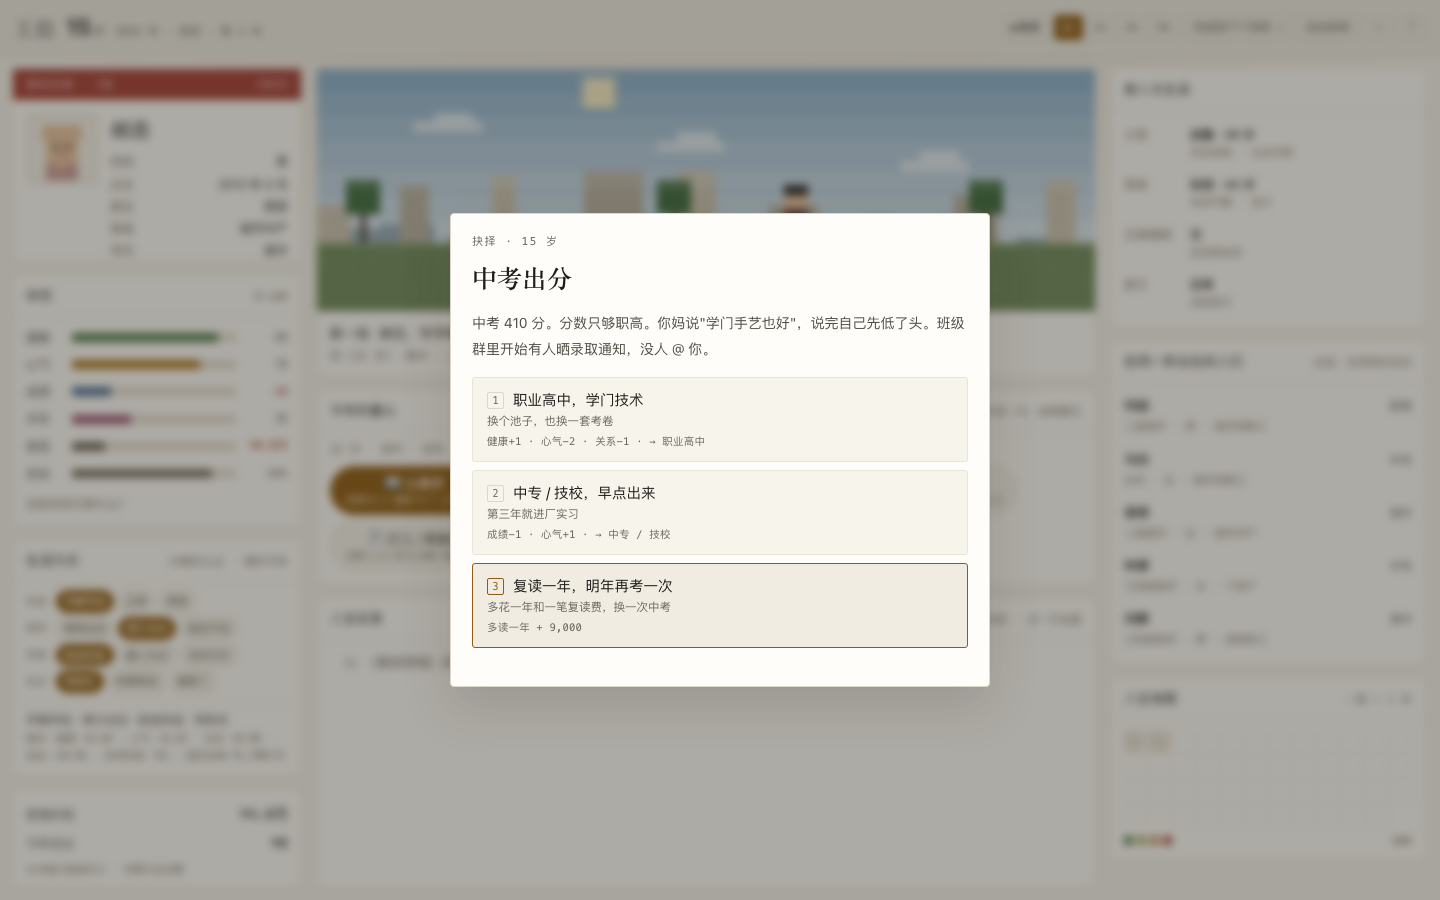
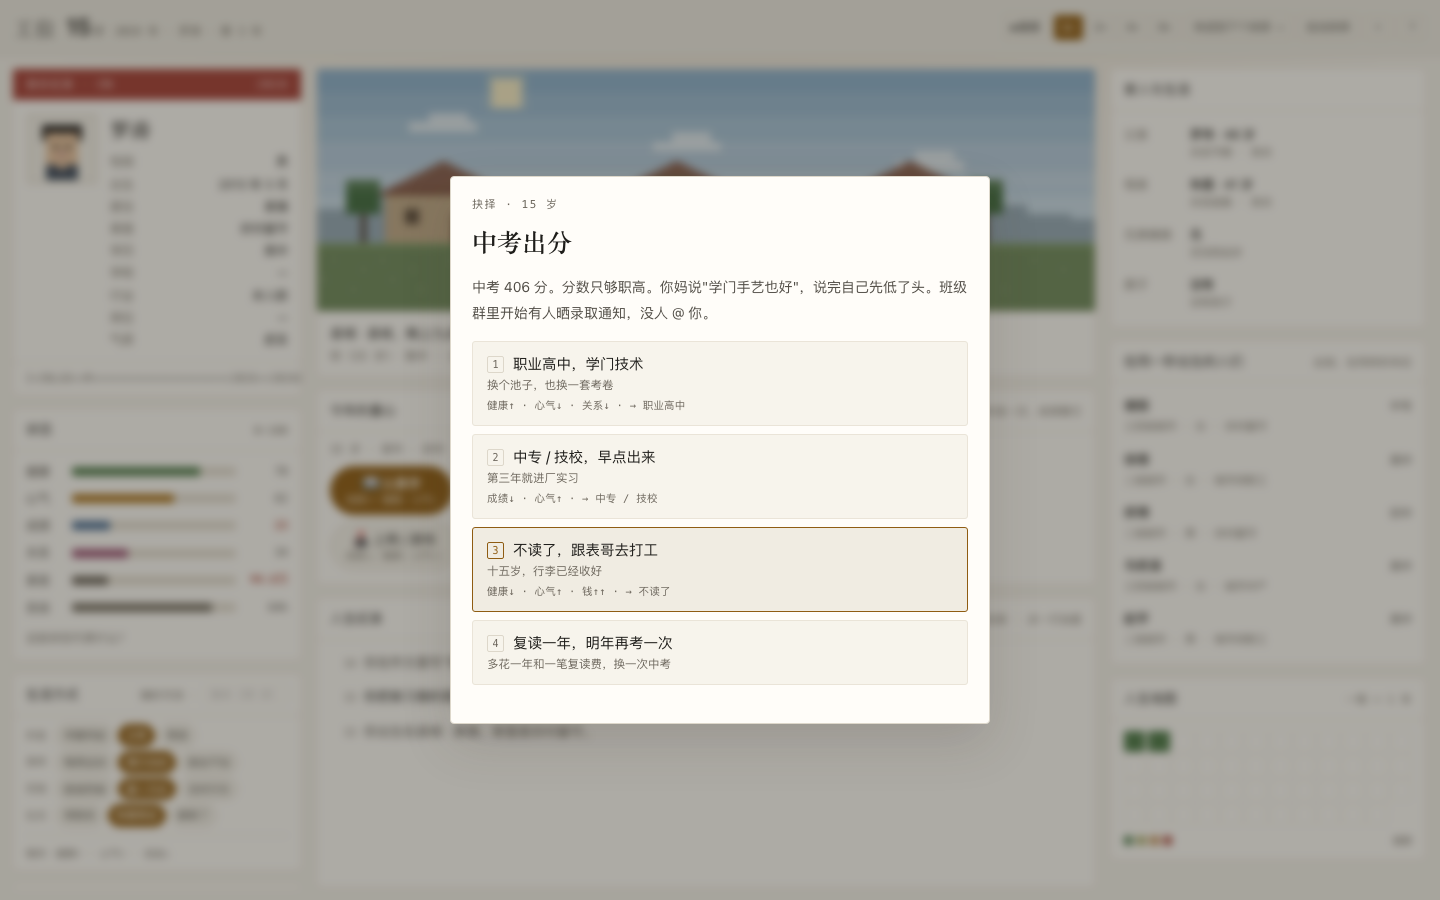
v0.8.0: 增减只给方向（↑ / ↑↑ / ↑↑↑），不再显示具体数值

diff --git a/js/ui.js b/js/ui.js
@@ -426,12 +426,11 @@
     if (isStudent()) {
       const f = D.focusSchool[id];
       if (!f) return [];
-      const sg = function (n) { return (n > 0 ? '+' : '−') + (Math.abs(n) % 1 ? Math.abs(n).toFixed(1) : Math.abs(n)); };
       const out = [];
-      if (f.acad) out.push('成绩' + sg(f.acad));
-      if (f.cash) out.push((f.cash > 0 ? '钱+' : '钱−') + fmtWan(Math.abs(f.cash)));
-      if (f.health) out.push('健康' + sg(f.health));
-      if (f.spirit) out.push('心气' + sg(f.spirit));
+      if (f.acad) out.push('成绩' + dirStat(f.acad));
+      if (f.cash) out.push(f.cash > 0 ? '钱↑' : '钱↓');
+      if (f.health) out.push('健康' + dirStat(f.health));
+      if (f.spirit) out.push('心气' + dirStat(f.spirit));
       return out.slice(0, 3);
     }
     return D.focusTags[id] || [];
@@ -471,12 +470,6 @@
   function bindChips() { /* 事件委托已在 renderFocus 内绑定 */ }
 
   // ------------------------------------------------------------------ 生活方式
-  function lifeSign(n, unit) {
-    const v = Math.round(n * 100) / 100;
-    if (!v) return null;
-    const abs = Math.abs(v);
-    return (v > 0 ? '+' : '−') + (Math.abs(abs % 1) > 0.001 ? abs.toFixed(2) : abs.toFixed(0)) + (unit || '');
-  }
   let lifeSig = '';
   function renderLife() {
     const box = $('#life-rows');
@@ -519,37 +512,37 @@
     });
     const t = E.lifeTotals(S);
     const parts = [];
-    if (t.health) parts.push('健康 ' + lifeSign(t.health));
-    if (t.spirit) parts.push('心气 ' + lifeSign(t.spirit));
-    if (t.relation) parts.push('关系 ' + lifeSign(t.relation));
-    if (t.freedom) parts.push('自由 ' + lifeSign(t.freedom) + 'h/周');
-    if (t.misc) parts.push('杂项花销 ' + lifeSign(t.misc * 100, '%'));
-    if (t.cash) parts.push('固定花销 ' + fmtMoney(-t.cash) + '/年');
+    if (t.health) parts.push('健康' + dirYear(t.health));
+    if (t.spirit) parts.push('心气' + dirYear(t.spirit));
+    if (t.relation) parts.push('关系' + dirYear(t.relation));
+    if (t.freedom) parts.push('自由' + dirFree(t.freedom));
+    // 杂项比例和固定开销合起来看方向：省钱的过法每年存下的钱也是钱
+    const money = (t.cash || 0) + (t.misc || 0) * 120000;
+    if (money) parts.push('钱' + (money > 0 ? '↑' : '↓'));
     const nums = $('#life-nums');
     if (nums) nums.textContent = parts.length ? '每年：' + parts.join(' · ') : '每年：不增不减，随波逐流';
   }
 
 
   // ------------------------------------------------------------------ 生活账本
-  const SHOP_LABEL = { spirit: '心气', relation: '关系', health: '健康', skill: '能力', acad: '成绩' };
-  function shopDelta(n) {
-    const v = Math.abs(n);
-    return (n > 0 ? '+' : '−') + (Math.abs(v % 1) > 0.001 ? v.toFixed(1) : v);
-  }
   function shopEffectText(it) {
     const out = [];
     const e = it.eff || {};
-    Object.keys(SHOP_LABEL).forEach(function (k) {
-      if (e[k]) out.push(SHOP_LABEL[k] + ' ' + shopDelta(e[k]));
+    const one = [];
+    Object.keys(DIR).forEach(function (k) {
+      if (e[k]) one.push(DIR[k] + dirStat(e[k]));
     });
+    if (e.cash) one.push('钱' + dirCash(e.cash));
+    if (one.length) out.push(one.join(' · '));
     const p = it.perYear || {};
     const py = [];
-    Object.keys(SHOP_LABEL).forEach(function (k) {
-      if (p[k]) py.push(SHOP_LABEL[k] + ' ' + shopDelta(p[k]));
+    Object.keys(DIR).forEach(function (k) {
+      if (p[k]) py.push(DIR[k] + dirYear(p[k]));
     });
-    if (p.freedom) py.push('自由 ' + shopDelta(p.freedom) + 'h');
-    if (it.risk) py.push(Math.round(it.risk * 100) + '% 事故');
+    if (p.freedom) py.push('自由' + dirFree(p.freedom));
+    if (p.cash) py.push('钱↓');
     if (py.length) out.push('之后每年 ' + py.join(' · '));
+    if (it.risk) out.push('每年有事故风险');
     return out.join(' · ');
   }
 
@@ -635,9 +628,9 @@
     if (sum) {
       const parts = [];
       if (t.cash) parts.push(fmtMoney(-t.cash));
-      if (t.health) parts.push('健康 ' + shopDelta(t.health));
-      if (t.spirit) parts.push('心气 ' + shopDelta(t.spirit));
-      if (t.relation) parts.push('关系 ' + shopDelta(t.relation));
+      if (t.health) parts.push('健康' + dirYear(t.health));
+      if (t.spirit) parts.push('心气' + dirYear(t.spirit));
+      if (t.relation) parts.push('关系' + dirYear(t.relation));
       sum.textContent = '这套规矩每年：' + (parts.length ? parts.join(' · ') : '不增不减');
     }
   }
@@ -989,33 +982,44 @@
   function hex(c) { return [parseInt(c.slice(1, 3), 16), parseInt(c.slice(3, 5), 16), parseInt(c.slice(5, 7), 16)]; }
 
   // ------------------------------------------------------------------ 节点 / 事件
+  // 增减只给方向，不给数值：三档箭头，让玩家凭直觉权衡，而不是做算术。
+  const DIR = { acad: '成绩', skill: '能力', health: '健康', spirit: '心气', relation: '关系' };
+  function arrows(v, mid, high) {
+    const a = Math.abs(v);
+    const n = a >= high ? 3 : a >= mid ? 2 : 1;
+    return (v > 0 ? '↑' : '↓').repeat(n);
+  }
+  function dirStat(v) { return arrows(v, 3, 7); }
+  function dirCash(v) { return arrows(v, 5000, 50000); }
+  function dirYear(v) { return arrows(v, 0.4, 1.0); }
+  function dirRate(v) { return arrows(v, 0.1, 0.3); }
+  function dirFree(v) { return arrows(v, 3, 7); }   // 自由是每周小时数，量纲和属性点不同
+  // 纯方向的老提示（"成绩↑ 心气↓"）不再重复显示，交给自动生成的增减行
+  function isDirOnly(hint) {
+    return /^([^\s·]{1,5}[↑↓]+[\s·]*)+$/.test(String(hint || '').trim());
+  }
+
   function effectText(opt) {
     if (!opt) return '';
     const eff = opt.eff || {};
     const sp = opt.special || eff.special;
     const out = [];
-    const sg = function (n) { return (n > 0 ? '+' : '−') + Math.abs(n); };
-    if (eff.acad) out.push('成绩' + sg(eff.acad));
-    if (eff.skill) out.push('能力' + sg(eff.skill));
-    if (eff.health) out.push('健康' + sg(eff.health));
-    if (eff.spirit) out.push('心气' + sg(eff.spirit));
-    if (eff.relation) out.push('关系' + sg(eff.relation));
-    if (eff.cash) out.push((eff.cash > 0 ? '钱+' : '钱−') + fmtWan(Math.abs(eff.cash)));
-    if (eff.salaryMul) out.push('月薪' + (eff.salaryMul >= 1 ? '+' : '−') + Math.round(Math.abs(eff.salaryMul - 1) * 100) + '%');
+    ['acad', 'skill', 'health', 'spirit', 'relation'].forEach(function (k) {
+      if (eff[k]) out.push(DIR[k] + dirStat(eff[k]));
+    });
+    if (eff.cash) out.push('钱' + dirCash(eff.cash));
+    if (eff.salaryMul) out.push('月薪' + dirRate(eff.salaryMul - 1));
     if (eff.track) out.push('→ ' + ((D.schoolTracks[eff.track] || {}).name || eff.track));
     if (eff.edu) out.push('→ ' + eff.edu);
-    if (eff.startSalary) out.push('起薪 ¥' + eff.startSalary);
+    if (eff.startSalary) out.push('开始有工资');
     if (eff.majorGroup) out.push('专业重抽');
     if (sp) {
+      // 只留"数值说不清"的那些；能从 eff 推出来的不再重复
       const SP = {
-        exam: '上岸率 < 10%', exam35: '年龄窗口只剩两年', grad: '多读三年',
-        house_big: '首付 + 30 年房贷', house_small: '回省会，工资降',
-        kid: '钱 / 时间 / 心气一起扣', freelance: '收入从此不稳', startup: '高方差，可能归零',
-        retireEarly: '提前退场', repeat_zk: '多读一年 + 9,000', repeat_gk: '多读一年 + 2.5 万',
-        override_obey: '关系 +5 · 心气 −7', override_fight: '50% 被发现',
-        override_teacher: '花 8,000 · 成功率 72%',
+        grad: '多读三年', freelance: '收入从此不稳', startup: '高方差，可能归零',
+        retireEarly: '提前退场',
       };
-      out.push(SP[sp] || '要赌一次');
+      if (SP[sp]) out.push(SP[sp]);
     }
     if (eff.flags) {
       if (eff.flags.partner) out.push('有伴侣');
@@ -1048,8 +1052,9 @@
       const b = document.createElement('button');
       b.className = 'opt';
       const cost = effectText(x.o);
+      const hintOk = x.o.hint && !isDirOnly(x.o.hint) && cost.indexOf(x.o.hint) < 0;
       b.innerHTML = '<div class="t"><span class="num">' + (i + 1) + '</span>' + x.o.label + '</div>' +
-        (x.o.hint ? '<div class="h">' + x.o.hint + '</div>' : '') +
+        (hintOk ? '<div class="h">' + x.o.hint + '</div>' : '') +
         (cost ? '<div class="cost">' + cost + '</div>' : '');
       b.onclick = function () { choose(x); };
       box.appendChild(b);

diff --git a/js/data.core.js b/js/data.core.js
@@ -11,7 +11,7 @@
   D.meta = {
     title: '工位',
     subtitle: '1 in 740 Million',
-    version: '0.7.1',
+    version: '0.8.0',
     region: 'CN',
     currency: 'CNY',
     symbol: '¥',
@@ -214,7 +214,7 @@
       body: {
         id: 'body', name: '身体',
         options: [
-          { id: 'gym', name: '每周运动', note: '健身房年卡 2,400', health: 0.55, spirit: 0.15, freedom: -3, cash: -2400 },
+          { id: 'gym', name: '每周运动', note: '健身房年卡，一年下来不便宜', health: 0.55, spirit: 0.15, freedom: -3, cash: -2400 },
           { id: 'walk', name: '偶尔动动', note: '通勤多走两站', health: 0.15, spirit: 0.05, freedom: -1 },
           { id: 'sofa', name: '能坐不站', note: '下班就躺，周末也躺', health: -0.40, spirit: 0.05, freedom: 1 },
         ],
@@ -358,31 +358,31 @@
         id: 'save', name: '资金存放',
         options: [
           { id: 'cash', name: '放家里', note: '没有利息，也不会亏', cash: 0 },
-          { id: 'bank', name: '存银行', note: '每年 1.5% 利息', cash: 0 },
-          { id: 'fund', name: '买基金', note: '平均 4%，但会亏', cash: 0 },
+          { id: 'bank', name: '存银行', note: '有一点利息，不会亏', cash: 0 },
+          { id: 'fund', name: '买基金', note: '可能赚，也可能亏', cash: 0 },
         ],
       },
       gift: {
         id: 'gift', name: '红白包',
         options: [
-          { id: 'full', name: '包足', note: '每年 2,000 · 关系 +0.6', cash: -2000, relation: 0.6 },
-          { id: 'half', name: '包一半', note: '每年 1,000 · 关系 +0.1', cash: -1000, relation: 0.1 },
-          { id: 'none', name: '只到场', note: '不花钱 · 关系 −0.4', cash: 0, relation: -0.4 },
+          { id: 'full', name: '包足', note: '每年包一笔 · 关系↑', cash: -2000, relation: 0.6 },
+          { id: 'half', name: '包一半', note: '每年包一半 · 关系略↑', cash: -1000, relation: 0.1 },
+          { id: 'none', name: '只到场', note: '不花钱 · 关系↓', cash: 0, relation: -0.4 },
         ],
       },
       insure: {
         id: 'insure', name: '保险',
         options: [
           { id: 'basic', name: '基本保障', note: '不花钱 · 看病全自付', cash: 0 },
-          { id: 'full', name: '保得完整', note: '每年 1,800 · 健康 +0.15 · 医疗事件自付减半', cash: -1800, health: 0.15 },
+          { id: 'full', name: '保得完整', note: '每年缴保费 · 健康↑ · 医疗自付减半', cash: -1800, health: 0.15 },
         ],
       },
       diet: {
         id: 'diet', name: '饮食习惯',
         options: [
           { id: 'same', name: '和周围一样', note: '不增不减', cash: 0 },
-          { id: 'healthy', name: '少盐多菜', note: '每年 1,200 · 健康 +0.5', cash: -1200, health: 0.5 },
-          { id: 'takeout', name: '常外食外送', note: '每年 2,400 · 健康 −0.5 · 心气 +0.3', cash: -2400, health: -0.5, spirit: 0.3 },
+          { id: 'healthy', name: '少盐多菜', note: '买菜贵一点 · 健康↑', cash: -1200, health: 0.5 },
+          { id: 'takeout', name: '常外食外送', note: '花费多 · 健康↓ · 心气↑', cash: -2400, health: -0.5, spirit: 0.3 },
         ],
       },
     },

diff --git a/js/data.nodes.js b/js/data.nodes.js
@@ -201,7 +201,7 @@
           log: '你买了南下的火车票。站了 19 个小时，下车时觉得这座城市很高。',
         },
         {
-          id: 'repeatGk', label: '复读一年，明年再考', hint: '多花一年和 2.5 万复读费，再赌一次',
+          id: 'repeatGk', label: '复读一年，明年再考', hint: '多花一年和一笔复读费，再赌一次',
           show: function (S) { return !S.flags.repeatedGk && ['sn', 'sz', 's2'].indexOf(S.draw.score.id) >= 0; },
           eff: { special: 'repeat_gk' }, log: '',
         },
@@ -348,7 +348,7 @@
           (S.flags.partner ? '你们讨论过三次，每次都停在"再想想"。' : '你连讨论的对象都还没有，但催的人在变多。');
       },
       options: [
-        { id: 'kid', label: '生', hint: '钱、时间、心气，三样一起扣', special: 'kid', eff: { spirit: 2, relation: 3, health: -3 }, log: '' },
+        { id: 'kid', label: '生', hint: '钱、时间、健康，三样一起扣', special: 'kid', eff: { spirit: 2, relation: 3, health: -3 }, log: '' },
         { id: 'nokid', label: '不生', hint: '轻松，但要扛住所有人的嘴', eff: { spirit: 4, relation: -5, cash: 40000 }, log: '你说"我们不打算要"。你妈沉默了三秒，然后说"你们自己决定"。' },
         { id: 'later', label: '再等三年', hint: '身体成本会替你决定', eff: { spirit: 1, health: -2, flags: { kidLater: true } }, log: '你说"35 岁之前一定"。这句话你自己都不太信。' },
       ],

diff --git a/index.html b/index.html
@@ -22,7 +22,7 @@
   <!-- ============================ 封面 -->
   <section id="s-landing" class="screen active">
     <div class="landing-inner">
-      <div class="kicker">人生模拟器 · 中国 · v0.7.1</div>
+      <div class="kicker">人生模拟器 · 中国 · v0.8.0</div>
       <h1 class="title">工位</h1>
       <div class="subtitle">1 in 740 Million</div>
       <p class="lede">

diff --git a/README.md b/README.md
@@ -31,7 +31,7 @@ python3 -m http.server 8080
 
 一局大约弹出 12 次抉择岔路 + 6 次左右事件卡，其他时间你在看自己的日子一年一年过去。
 
-键盘：`1–6` 选重心；弹窗打开时 `1–9` 直接选选项、`空格 / 回车` 继续；`Esc` 关面板。每个选项下面都写着它的真实代价（成绩 +5 · 心气 −2 · 钱 −1.2万），不存在"看起来免费"的选择。
+键盘：`1–6` 选重心；弹窗打开时 `1–9` 直接选选项、`空格 / 回车` 继续；`Esc` 关面板。每个选项下面都写着它的代价方向（成绩↑↑ · 心气↓ · 钱↓），**只给方向，不给数值**——不存在"看起来免费"的选择，但也不让你在弹窗里做算术。
 
 ## 截图
 
@@ -45,7 +45,7 @@ python3 -m http.server 8080
 |---|---|
 | ![游戏中](screenshots/03-board.png) | ![暗色](screenshots/06-board-dark.png) |
 
-| 岔路：选项下面写着真实代价 | 结果页：看完自己点继续 |
+| 岔路：选项下面写着代价方向 | 结果页：看完自己点继续 |
 |---|---|
 | ![节点](screenshots/07-node.png) | ![结果](screenshots/08-result.png) |
 
@@ -128,7 +128,7 @@ git push origin main
 - **分流是分层的**：重点高中 / 普高 / 职高 / 中专 / 不读了，五条路各有各的难，职高与中专走的是另一张卷子（对口升学 / 直接进厂 / 学手艺）。
 - **复读只有一次**：中考没考好可以复读一年（多花 9,000 和一年心气），高考没考好可以复读一年（2.5 万）；复读不是保底，第二次考砸的概率是 22%。复读之后整个人生整体往后顺延一年。
 - **志愿会被家里动**：填完志愿有概率被父母改成"他们认为稳"的方向（体制内/双职工家庭 56%，进城务工 26%），然后进入一场家庭谈判：认了、连夜改回来（50% 被发现）、找班主任（8,000，72% 成功）。
-- **每年只选一个重心**：上班是拼事业 / 学技能 / 搞关系 / 顾身体 / 陪家人 / 搞副业；上学是认真学 / 补课刷题 / 打球 / 早恋 / 打工 / 上网。每个都明码标价，都至少扣一维。
+- **每年只选一个重心**：上班是拼事业 / 学技能 / 搞关系 / 顾身体 / 陪家人 / 搞副业；上学是认真学 / 补课刷题 / 打球 / 早恋 / 打工 / 上网。每个都至少扣一维，方向直接写在按钮上。
 - **生活方式是长期设定**：作息（早睡早起 / 正常 / 熬夜）、身体（每周运动 / 偶尔动动 / 能坐不站）、花钱（能省则省 / 量入为出 / 及时行乐）、社交（常联系 / 有事再说 / 都断了）。每一档都换算成"每年"的增减，卡上直接写出来；学生阶段打八折。它不弹窗、不打断，但 38 年下来能把健康拉开 50 分、把存款拉开一倍。
 - **事件卡是稀疏的**：成人阶段四年冷却、命中率 28%，一条命大约 6 张事件卡，而不是每年一张。事件少了，每一张才有分量。
 - **生活账本（18 岁后）**：25 件可买的东西 + 4 条账上规矩 + 4 件每年自动做的事。买东西一次付钱、长期生效——电视给一次心气，之后每年一点点；宠物每年吃 2,400；自行车让健康每年 +0.45；机车爽但每年 3% 事故。账上规矩是「钱放哪 / 红白包怎么给 / 保险买不买 / 吃什么」，每年自动扣钱或回血。自动做的事只有存款超过费用三倍才会执行，不会让你负债。
@@ -227,6 +227,7 @@ console.log(b.dist);
 
 ## 版本
 
+- v0.8.0 — **增减只给方向**：选项、重心、生活方式、生活账本里的效果全部换成箭头（`成绩↑↑ · 心气↓ · 钱↓`），不再显示 `成绩 +5 · 心气 −2 · 钱 −1.2万` 这种数值；商店的价格照旧标着（买东西得知道多少钱），但"买了之后会怎样"只给方向。重写了旧的 `hint` 显示规则：纯方向的提示不再和自动生成的增减行重复。
 - v0.7.1 — 账本入口从「生活方式」卡底部挪到卡片标题栏（`账本 ›`），小屏上也能一眼看到；左栏卡片不再被 flex 压缩（之前窗口矮时身份卡会被截断），改成一列可滚动。
 - v0.7.0 — **生活账本**：参考同类人生模拟器的消费系统，加了 25 件可买的东西（兴趣 / 宠物 / 家电 / 自行车 / 机车 / 聚餐 / 旅游 / 证照与职业训练 / 飞行学校 / 找对象 / 搬出父母家 / 搬家 / 捐款），9 个分组，打开时暂停时间；买了之后长期生效（宠物每年吃钱、骑车健康、机车事故风险、兴趣每年给心气）；新增 4 条账上规矩（资金存放 / 红白包 / 保险 / 饮食习惯）和 4 件「每年自动」（聚餐 / 捐款 / 旅游 / 进修，存款超过费用三倍才执行）。**钱能买到生活质量，但买不到结局**：一条命下来平均少存 12 万，换来心气 +12、关系 +7。
 - v0.6.0 — **少弹窗、多参与**：事件卡从「几乎每年一张」降到「成人四年冷却、命中率 28%」，一条命约 6 张（之前约 26 张）；结果页不再 1.5 秒自动跳过，改成看完自己点「继续」；新增**生活方式**系统——作息 / 身体 / 花钱 / 社交四个维度、每档三选一，随时可改，直接进入年度结算（健康、心气、关系、自由、杂费、固定开销），卡片上写着这套过法每年折算多少；生活方式偶尔会在人生纪录里冒一句话；结算页和分享文案都会带上「你这一辈子是怎么过的」。
